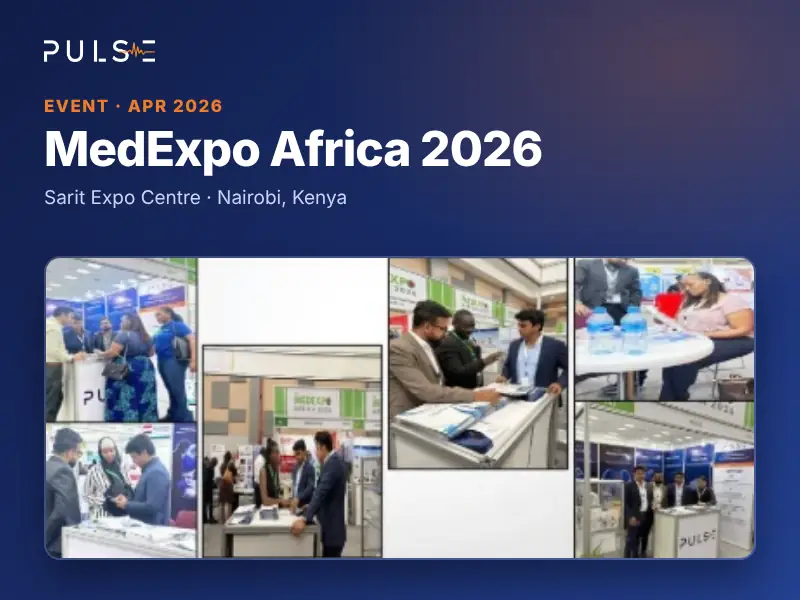
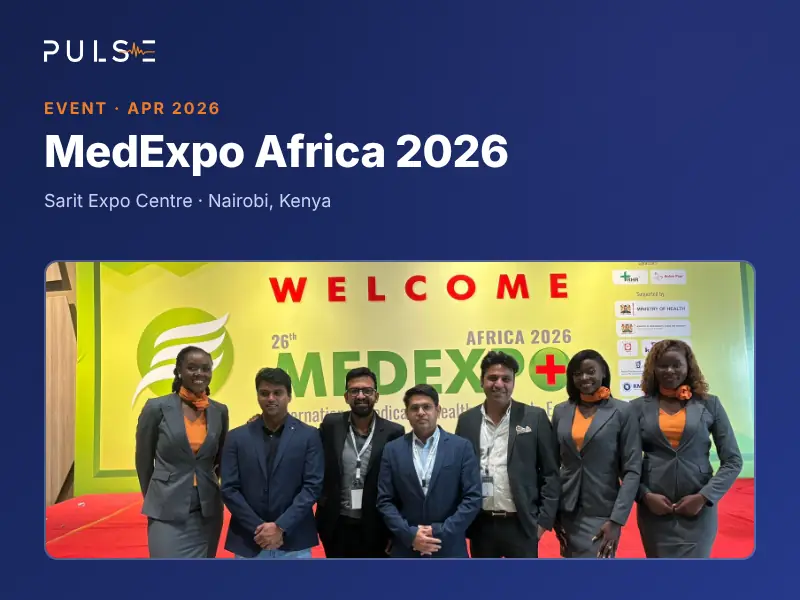
MedExpo Africa article: add six original event photos (WebP, each under 30 KB)
- Hero: team at the 26th MedExpo Africa welcome stage
- Booth front/wide pair, visitor conversations pair, critical care stand
- Articles-tab card rebuilt with the sharp photo; sitemap image entries added

Claude-Session: https://claude.ai/code/session_01TkCKB5i5Gk2agQt4wujzkq

diff --git a/blog-pulse-medexpo-africa-2026.html b/blog-pulse-medexpo-africa-2026.html
@@ -216,13 +216,21 @@ j=d.createElement(s),dl=l!='dataLayer'?'&l='+l:'';j.async=true;j.src=
 
 
   <figure style="margin:24px 0;">
-    <img src="/image/Events/pulse-medexpo-africa-2026-booth.webp" alt="Pulse team meeting visitors at the Pulse booth, MedExpo Africa 2026, Nairobi" width="408" height="233" loading="lazy" decoding="async" style="width:100%;max-width:816px;height:auto;border-radius:12px;display:block;">
-    <figcaption style="font-size:13.5px;color:#6b7280;margin-top:8px;">Conversations at the Pulse booth, MedExpo Africa 2026, Nairobi. Photos: Pulse.</figcaption>
+    <img src="/image/Events/pulse-medexpo-africa-2026-booth.webp" alt="The Pulse team at the welcome stage of the 26th MedExpo Africa 2026, Sarit Expo Centre, Nairobi" width="640" height="480" loading="lazy" decoding="async" style="width:100%;max-width:100%;height:auto;border-radius:12px;display:block;">
+    <figcaption style="font-size:13.5px;color:#6b7280;margin-top:8px;">The Pulse team at the welcome stage of the 26th MedExpo Africa 2026 in Nairobi. Photo: Pulse.</figcaption>
   </figure>
 
   <h2 id="what-is-medexpo-africa-medexpo-kenya">What Is MedExpo Africa (Medexpo Kenya)?</h2>
   <p>Medexpo Kenya, also promoted as MedExpo Africa, is an annual international trade exhibition for medical and healthcare products in Nairobi. It describes itself as East Africa's largest event of its kind. The 2026 show was the 26th edition, with exhibitors from more than 25 countries, including India, Turkey, Pakistan, China and Italy, and visitors from across East and Central Africa.</p>
   <p>The show was supported by Kenya's Ministry of Health and Ministry of Investments, Trade and Industry, with groups such as the Kenya Association of Private Hospitals and the Pharmaceutical Society of Kenya taking part. Dr Ouma Oluga, Principal Secretary for Medical Services, was set to open it.</p>
+
+  <figure style="margin:24px 0;">
+    <div style="display:grid;grid-template-columns:1fr 1fr;gap:12px;">
+      <img src="/image/Events/pulse-medexpo-africa-booth-front.webp" alt="The Pulse booth at MedExpo Africa 2026 with critical care, renal care and cardiac care panels" width="380" height="676" loading="lazy" decoding="async" style="width:100%;height:auto;border-radius:12px;display:block;">
+      <img src="/image/Events/pulse-medexpo-africa-booth-wide.webp" alt="Visitors at the Pulse booth in the India section of MedExpo Africa 2026" width="380" height="676" loading="lazy" decoding="async" style="width:100%;height:auto;border-radius:12px;display:block;">
+    </div>
+    <figcaption style="font-size:13.5px;color:#6b7280;margin-top:8px;">The Pulse booth in the India section, with panels for critical care, renal care, cardiac care, aesthetics and hospital furniture. Photos: Pulse.</figcaption>
+  </figure>
 
   <h2 id="medexpo-africa-2026-at-a-glance">MedExpo Africa 2026 at a Glance</h2>
   <div class="table-scroll"><table class="spec-table">
@@ -241,7 +249,18 @@ j=d.createElement(s),dl=l!='dataLayer'?'&l='+l:'';j.async=true;j.src=
 
   <h2 id="at-the-pulse-booth">At the Pulse Booth</h2>
   <p>Co-founders <strong>Nishant Goel</strong> and <strong>Anshul Sharma</strong> led the team in Nairobi. Over three days, they spoke with doctors, hospital teams and distributors, walked them through Pulse products and answered their questions.</p>
+  <figure style="margin:24px 0;">
+    <div style="display:grid;grid-template-columns:1fr 1fr;gap:12px;">
+      <img src="/image/Events/pulse-medexpo-africa-visitors.webp" alt="The Pulse team talking with healthcare visitors at the booth, MedExpo Africa 2026" width="360" height="640" loading="lazy" decoding="async" style="width:100%;height:auto;border-radius:12px;display:block;">
+      <img src="/image/Events/pulse-medexpo-africa-brochure.webp" alt="The Pulse team walking a visitor through the Pulse brochure in Nairobi" width="380" height="676" loading="lazy" decoding="async" style="width:100%;height:auto;border-radius:12px;display:block;">
+    </div>
+    <figcaption style="font-size:13.5px;color:#6b7280;margin-top:8px;">Walking visitors through the Pulse range and brochure. Photos: Pulse.</figcaption>
+  </figure>
   <p>In the team's words: "Every conversation at the Pulse booth opened doors to new ideas, partnerships, and opportunities to create greater healthcare impact across borders."</p>
+  <figure style="margin:24px 0;">
+    <img src="/image/Events/pulse-medexpo-africa-critical-care.webp" alt="A visitor at the Pulse critical care stand, MedExpo Africa 2026" width="380" height="676" loading="lazy" decoding="async" style="width:100%;max-width:340px;height:auto;border-radius:12px;display:block;">
+    <figcaption style="font-size:13.5px;color:#6b7280;margin-top:8px;">Talking critical care at the Pulse booth. Photo: Pulse.</figcaption>
+  </figure>
 
   <h2 id="why-east-africa-matters-for-pulse">Why East Africa Matters for Pulse</h2>
   <p>Kenya's healthcare system faces rising demand from a growing, more urban population and a higher burden of non-communicable diseases such as diabetes, heart disease and kidney disease. That means more hospitals, more diagnostic and specialist services, and more need for equipment that works reliably and is properly serviced.</p>
